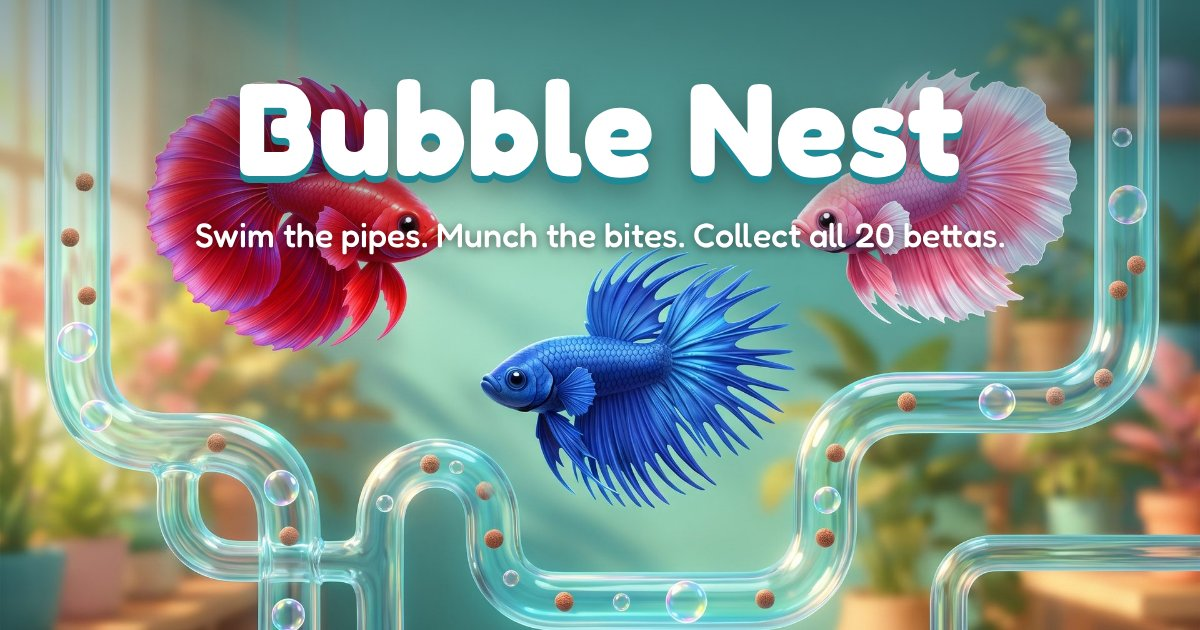
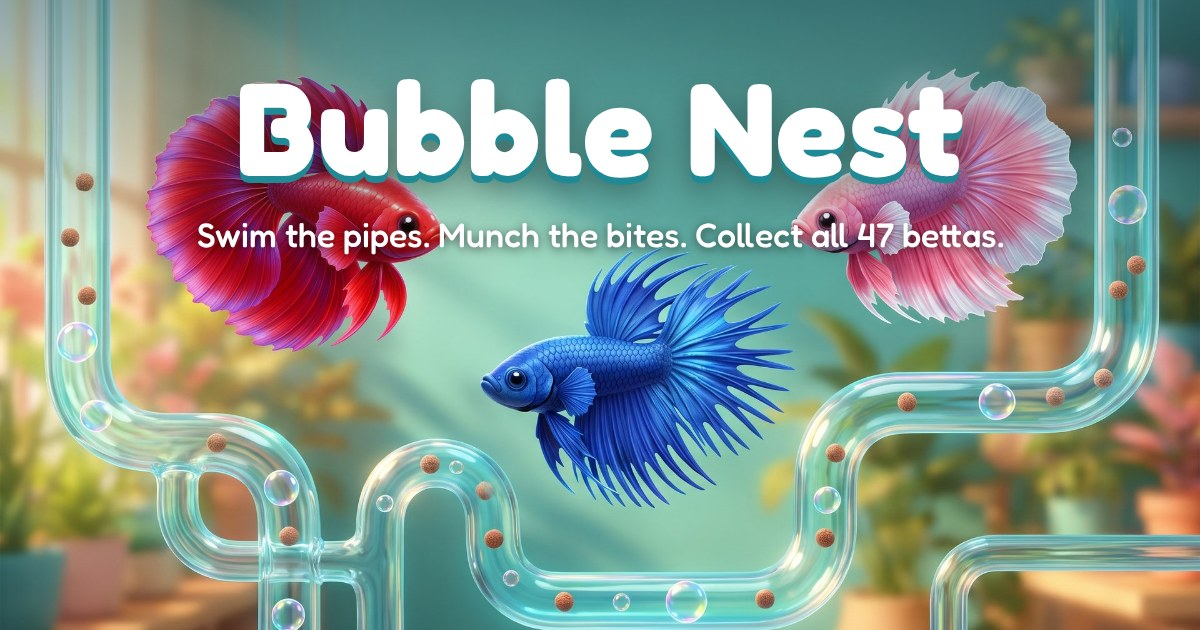
Social card: collect all 47 bettas

Changed region(s): [[0.1542, 0.3317, 0.8325, 0.3921]]

diff --git a/design/social-card.html b/design/social-card.html
@@ -1,8 +1,8 @@
 <!DOCTYPE html><html><head><meta charset="utf-8"><style>
-@font-face { font-family: 'Fredoka'; src: url('../game/fonts/Fredoka.ttf'); font-weight: 300 700; }
+@font-face { font-family: 'Fredoka'; src: url('../game/fonts/Fredoka.woff2') format('woff2'); font-weight: 300 700; }
 html,body{margin:0;width:1200px;height:630px;overflow:hidden}
 .c{position:relative;width:1200px;height:630px;background:url('../game/assets/bg/title-art.jpg') center/cover;font-family:Fredoka}
 .c::after{content:'';position:absolute;inset:0;background:linear-gradient(180deg,rgba(10,60,70,.45),rgba(10,60,70,0) 45%)}
 h1{position:absolute;z-index:1;left:0;right:0;top:46px;margin:0;text-align:center;font-size:132px;font-weight:700;color:#fff;text-shadow:0 7px 0 #1f8a95,0 14px 30px rgba(0,0,0,.35);letter-spacing:1px}
 p{position:absolute;z-index:1;left:0;right:0;top:214px;margin:0;text-align:center;font-size:34px;font-weight:500;color:#fff;text-shadow:0 2px 10px rgba(0,0,0,.6)}
-</style></head><body><div class="c"><h1>Bubble Nest</h1><p>Swim the pipes. Munch the bites. Collect all 20 bettas.</p></div></body></html>
+</style></head><body><div class="c"><h1>Bubble Nest</h1><p>Swim the pipes. Munch the bites. Collect all 47 bettas.</p></div></body></html>
